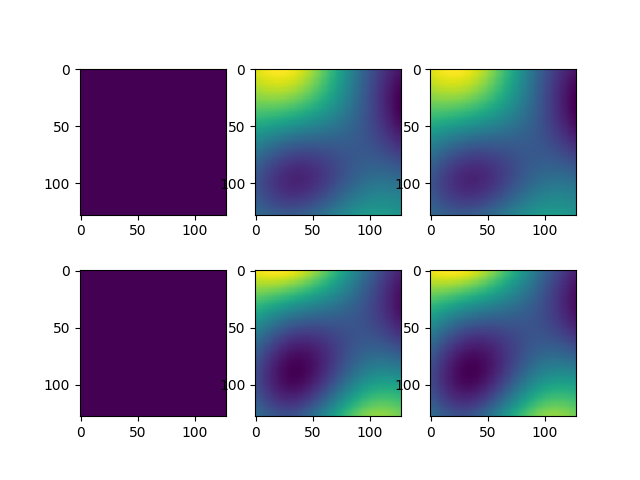
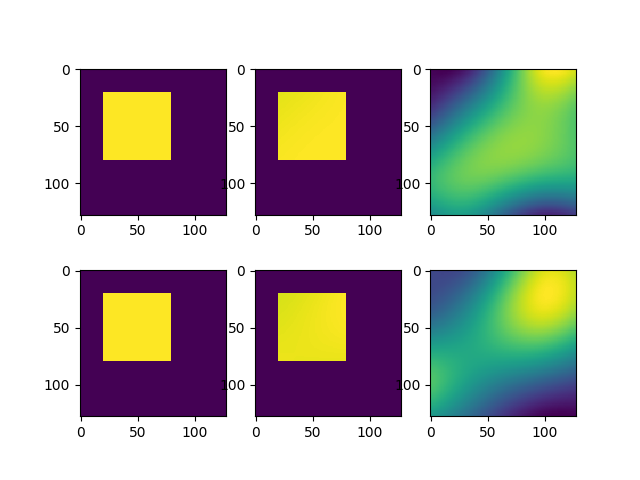
add 3D support

diff --git a/adv_bias_3d.py b/adv_bias_3d.py
@@ -101,15 +101,17 @@ class AdvBias3D(AdvBias):
 
 if __name__ == "__main__":
     import matplotlib.pyplot as plt
-    images = torch.ones(2,1,128,128,128).cuda()
-    images[:,:,60:80,60:80,60:80]=100.0
+    images = torch.zeros(2,1,128,128,128).cuda()
+    images[:,:,0:80,60:80,60:80]=0.2
+    images[:,:,0:80,20:80,20:80]=0.8
+
     images=images.float()
     images.requires_grad=False
     print ('input:',images)
     augmentor= AdvBias3D(
-               config_dict= {'epsilon':0.3, 
+               config_dict= {'epsilon':0.9, 
                  'control_point_spacing':[16,16,16],
-                 'downscale':4,
+                 'downscale':4, ## increase the downscale factor to save interpolation time
                  'data_size':[2,1,128,128,128],
                  'interpolation_order':3,
                  'init_mode':'gaussian',
@@ -130,15 +132,14 @@ if __name__ == "__main__":
     plt.imshow(transformed.detach().cpu().numpy()[0,0,0])
     
     plt.subplot(233)
-    plt.imshow((transformed/images).detach().cpu().numpy()[0,0,0])
+    plt.imshow((augmentor.bias_field.detach()).detach().cpu().numpy()[0,0,0])
     plt.subplot(234)
     plt.imshow(images.detach().cpu().numpy()[0,0,28])
-
     plt.subplot(235)
     plt.imshow(transformed.detach().cpu().numpy()[0,0,28])
     
     plt.subplot(236)
-    plt.imshow((transformed/images).detach().cpu().numpy()[0,0,28])
+    plt.imshow(augmentor.bias_field.detach().cpu().numpy()[0,0,28])
     plt.savefig('./result/test_bias_3D.png')
 
 
